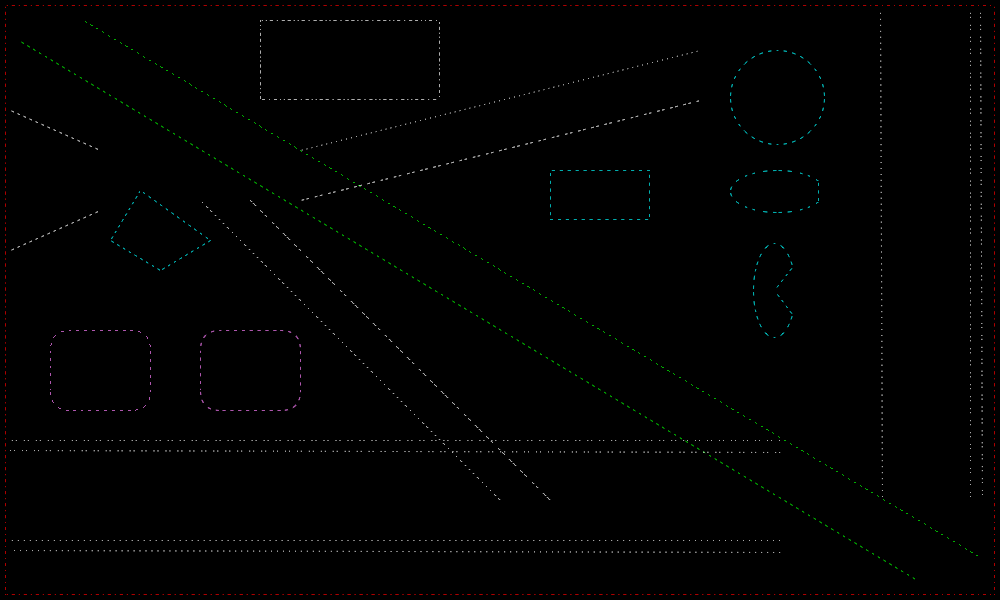
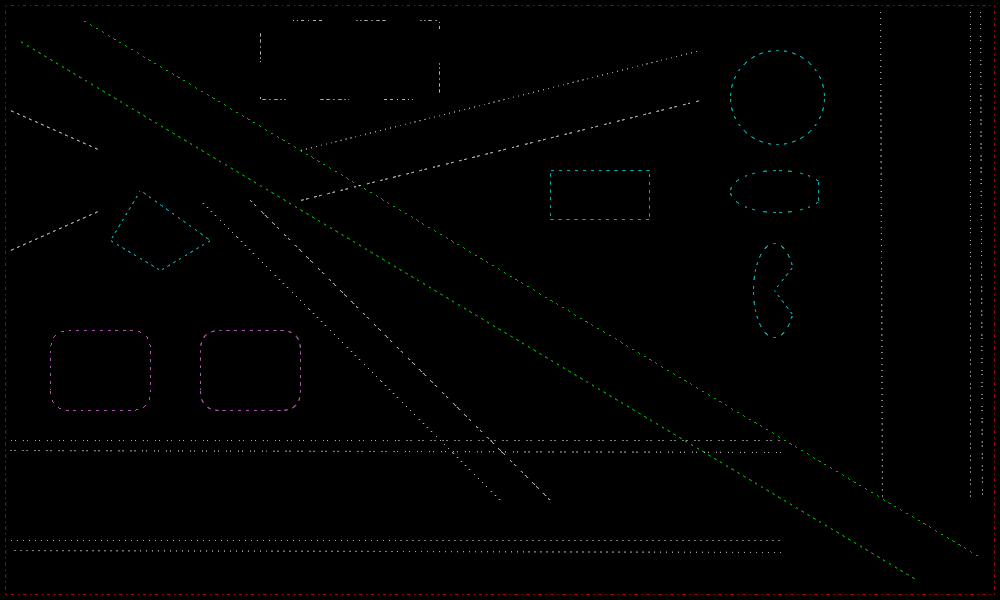
Improving patterned line a bit

diff --git a/src/Pt-Gfx/ImagePainter2.cpp b/src/Pt-Gfx/ImagePainter2.cpp
@@ -159,7 +159,10 @@ void ImagePainter2::drawLine( const PointF& from, const PointF& to )
     // Generate a polygon that represents the thick line
     std::vector<PointF> pointsF;
 
-    generateSolidLineSegment(pointsF, from.x(), from.y(), to.x(), to.y(), true, true);
+    if(_rasterizer->pen().style() == Pen::Solid)
+        generateSolidLineSegment(pointsF, from.x(), from.y(), to.x(), to.y(), true, true);
+    else
+        generatePatternedLineSegment(pointsF, from.x(), from.y(), to.x(), to.y(), true, true);
 
     // Rasterize the polygon
     std::vector<Point> points(pointsF.size());
@@ -341,6 +344,11 @@ void ImagePainter2::generateSolidLineSegment(std::vector<PointF>& dst, float x1,
     if(!closingCap) generateLineButtCap(dst, x2, y2, wh, -dx, -dy, -nx, -ny);
 }
 
+void ImagePainter2::generatePatternedLineSegment(std::vector<PointF>& dst, float x1, float y1, float x2, float y2, bool openingCap, bool closingCap)
+{
+    // ### TODO ###
+}
+
 void ImagePainter2::generateLineButtCap(std::vector<PointF>& dst, float x, float y, float wh, float px, float py, float nx, float ny)
 {
     (void) wh;
@@ -407,18 +415,22 @@ void ImagePainter2::generateLineTriangularInCap(std::vector<PointF>& dst, float 
 
 void ImagePainter2::combineLineSegmentForOpenPolygon(std::vector<PointF>& polygon, std::vector<PointF>& outer, const std::vector<PointF>& segment)
 {
+    // ### TODO ###
 }
 
 void ImagePainter2::finalizeLineSegmentForOpenPolygon(std::vector<PointF>& polygon, const std::vector<PointF>& outer)
 {
+    // ### TODO ###
 }
 
 void ImagePainter2::combineLineSegmentForClosedPolygon(std::vector<PointF>& outer, std::vector<PointF>& inner, const std::vector<PointF>& segment)
 {
+    // ### TODO ###
 }
 
 void ImagePainter2::finalizeLineSegmentForClosedPolygon(std::vector<PointF>& outer, std::vector<PointF>& inner, const std::vector<PointF>& segment)
 {
+    // ### TODO ###
 }
 
 

diff --git a/src/Pt-Gfx/Rasterizer2.cpp b/src/Pt-Gfx/Rasterizer2.cpp
@@ -225,7 +225,7 @@ void Rasterizer2::updatePenPattern()
     static const Pt::uint8_t patternDoubleDash[] = { 0, 1, 1, 1, 0, 0,  0, 1, 1, 1, 0, 0, 0, 0, 0, 0  };
     static const Pt::uint8_t patternDotDash   [] = { 0, 1, 0, 0, 0, 0, 1, 1, 1, 0, 0, 0               };
 
-    Pt::uint8_t patternUserDefined[32];
+    Pt::uint8_t patternUserDefined[64];
 
     // Select the pattern
     const Pt::uint8_t* patternSel;
@@ -259,10 +259,10 @@ void Rasterizer2::updatePenPattern()
             break;
 
         case Pen::UserDefined: {
-            const Pt::int32_t upat = _pen.userPattern();
-            for(Pt::int32_t i = 0; i < 32; ++i) {
-                if( upat & (1 << i) ) patternUserDefined[31 - i] = 1;
-                else                  patternUserDefined[31 - i] = 0;
+            const Pt::uint64_t upat = _pen.userPattern();
+            for(Pt::int32_t i = 0; i < 64; ++i) {
+                if( upat & ((Pt::uint64_t) 1 << i) ) patternUserDefined[63 - i] = 1;
+                else                                 patternUserDefined[63 - i] = 0;
             }
             patternSel =        patternUserDefined;
             patternLen = sizeof(patternUserDefined);

diff --git a/include/Pt/Gfx/Pen.h b/include/Pt/Gfx/Pen.h
@@ -124,7 +124,7 @@ class PT_GFX_API Pen
 
         /** @brief Returns the pen style user pattern.
         */
-        Pt::uint32_t userPattern() const;
+        Pt::uint64_t userPattern() const;
 
         /** @brief Returns the cap style.
         */
@@ -145,7 +145,7 @@ class PT_GFX_API PenData
 {
   public:
       PenData(const Color& color, std::size_t size,
-              Pen::Style style, Pt::uint32_t userPattern, Pen::CapStyle cap, Pen::JoinStyle join)
+              Pen::Style style, Pt::uint64_t userPattern, Pen::CapStyle cap, Pen::JoinStyle join)
       : _color(color)
       , _size(size)
       , _style(style )
@@ -163,7 +163,7 @@ class PT_GFX_API PenData
       Pen::Style style() const
       { return _style; }
 
-      Pt::uint32_t userPattern() const
+      Pt::uint64_t userPattern() const
       { return _userPattern; }
 
       Pen::CapStyle capStyle() const
@@ -176,7 +176,7 @@ class PT_GFX_API PenData
       Color          _color;
       std::size_t    _size;
       Pen::Style     _style;
-      Pt::uint32_t   _userPattern;
+      Pt::uint64_t   _userPattern;
       Pen::CapStyle  _capStyle;
       Pen::JoinStyle _joinStyle;
 };

diff --git a/src/Pt-Gfx/Rasterizer2.h b/src/Pt-Gfx/Rasterizer2.h
@@ -65,8 +65,9 @@
 #define MAXIMUM_COORD Painter::MaximumCoordinate
 #define MAXIMUM_POINT Painter::MaximumPointCoordinate
 
-// Scale for the pattern buffer
-#define PATTERN_BUFFER_SCALE_FACTOR 8
+// Scaling factor and starting value for the pattern buffer
+#define PATTERN_BUFFER_SCALE_FACTOR  2
+#define PATTERN_BUFFER_COUNTER_START FIXED_POINT_FROM_INT(PATTERN_BUFFER_SCALE_FACTOR / 2)
 
 // Just for easy and faster debugging ;)
 #include <stdio.h>
@@ -294,7 +295,7 @@ class Rasterizer2
         Pen              _pen;
         Image            _penBuffer;
         ConstPixel       _penPixel;
-        Pt::uint8_t      _patternBuffer[256];
+        Pt::uint8_t      _patternBuffer[64 * PATTERN_BUFFER_SCALE_FACTOR];
         Pt::int32_t      _fpatternMaxCtr; // In fixed-point
 
         Brush            _brush;

diff --git a/include/Pt/Gfx/ImagePainter2.h b/include/Pt/Gfx/ImagePainter2.h
@@ -128,6 +128,7 @@ class PT_GFX_API ImagePainter2 : public Painter
         inline void convertPointRound(std::vector<Point>& dst, const PointF* src, const size_t pointCount);
 
         void generateSolidLineSegment(std::vector<PointF>& dst, float x1, float y1, float x2, float y2, bool openingCap, bool closingCap);
+        void generatePatternedLineSegment(std::vector<PointF>& dst, float x1, float y1, float x2, float y2, bool openingCap, bool closingCap);
 
         void generateLineButtCap(std::vector<PointF>& dst, float x, float y, float wh, float px, float py, float nx, float ny);
         void generateLineSquareCap(std::vector<PointF>& dst, float x, float y, float wh, float px, float py, float nx, float ny);

diff --git a/src/Pt-Gfx/Rasterizer2_Ellipse.cpp b/src/Pt-Gfx/Rasterizer2_Ellipse.cpp
@@ -70,7 +70,7 @@ void Rasterizer2::strokeOnePixelEllipseArc(const Point& topLeft, const Size& siz
     const bool solid = (pen().style() == Pen::Solid);
 
     // Calculate the scaling factor for retrieving alphas from the pattern buffer
-    const float pbScale = solid ? 1.0f : std::max(radX, radY) / (float) PATTERN_BUFFER_SCALE_FACTOR;
+    const float pbScale = solid ? 1.0f : std::max(radX, radY) / (float) (64 / PATTERN_BUFFER_SCALE_FACTOR);
 
     // Determine we need to scale the indexes to the pattern buffer
     const bool scaleWP = (radX != radY);

diff --git a/src/Pt-Gfx/Rasterizer2_Rectangle.cpp b/src/Pt-Gfx/Rasterizer2_Rectangle.cpp
@@ -65,7 +65,7 @@ void Rasterizer2::strokeOnePixelRect(const Point& tl, const Point& br)
 
     // Patterned line
     else {
-        Pt::int32_t  fpiCtrInOut = 0;
+        Pt::int32_t  fpiCtrInOut = PATTERN_BUFFER_COUNTER_START;
         DrawLineMask mask        = Rasterizer2::NullLineMask;
         rasterOnePixelPatternedLine(minX, minY, maxX, minY, _pen.color(), fpiCtrInOut, &mask);
         rasterOnePixelPatternedLine(maxX, minY, maxX, maxY, _pen.color(), fpiCtrInOut, &mask);

diff --git a/src/Pt-Gfx/Rasterizer2_Line.cpp b/src/Pt-Gfx/Rasterizer2_Line.cpp
@@ -79,7 +79,7 @@ void Rasterizer2::strokeOnePixelLine(const Point& a, const Point& b, DrawLineMas
     if(_pen.style() == Pen::Solid)
         rasterOnePixelSolidLine(x1, y1, x2, y2, _pen.color(), maskInOut);
     else {
-        Pt::int32_t fpiCtrInOut = 0;
+        Pt::int32_t fpiCtrInOut = PATTERN_BUFFER_COUNTER_START;
         rasterOnePixelPatternedLine(x1, y1, x2, y2, _pen.color(), fpiCtrInOut, maskInOut);
     }
 }

diff --git a/src/Pt-Gfx/Rasterizer2_Polygon.cpp b/src/Pt-Gfx/Rasterizer2_Polygon.cpp
@@ -213,7 +213,7 @@ void Rasterizer2::rasterOnePixelPolygonOutline(const Point* points, size_t point
 
     // Pattern indexing counter
     const bool        solid       = (_pen.style() == Pen::Solid);
-          Pt::int32_t fpiCtrInOut = 0;
+          Pt::int32_t fpiCtrInOut = PATTERN_BUFFER_COUNTER_START;
 
     // From point N to point (N + 1), successively
     const size_t pc1 = pointCount - 1;

diff --git a/src/Pt-Gfx/Rasterizer2_Bezier.cpp b/src/Pt-Gfx/Rasterizer2_Bezier.cpp
@@ -45,7 +45,7 @@ void Rasterizer2::strokeOnePixelQuadraticPolybezier(const Point* points, size_t 
     DrawLineMask mask_nnp1 = Rasterizer2::NullLineMask;
 
     // Counter for pattern buffer
-    Pt::int32_t fpiCtrInOut = 0;
+    Pt::int32_t fpiCtrInOut = PATTERN_BUFFER_COUNTER_START;
 
     // Draw the curves
     for(size_t i = 0; i < (pointCount - 1); i += 2) {

diff --git a/src/Pt-Gfx/Pen.cpp b/src/Pt-Gfx/Pen.cpp
@@ -70,7 +70,7 @@ Pen::Style Pen::style() const
 }
 
 
-Pt::uint32_t Pen::userPattern() const
+Pt::uint64_t Pen::userPattern() const
 {
     return _penData->userPattern();
 }
